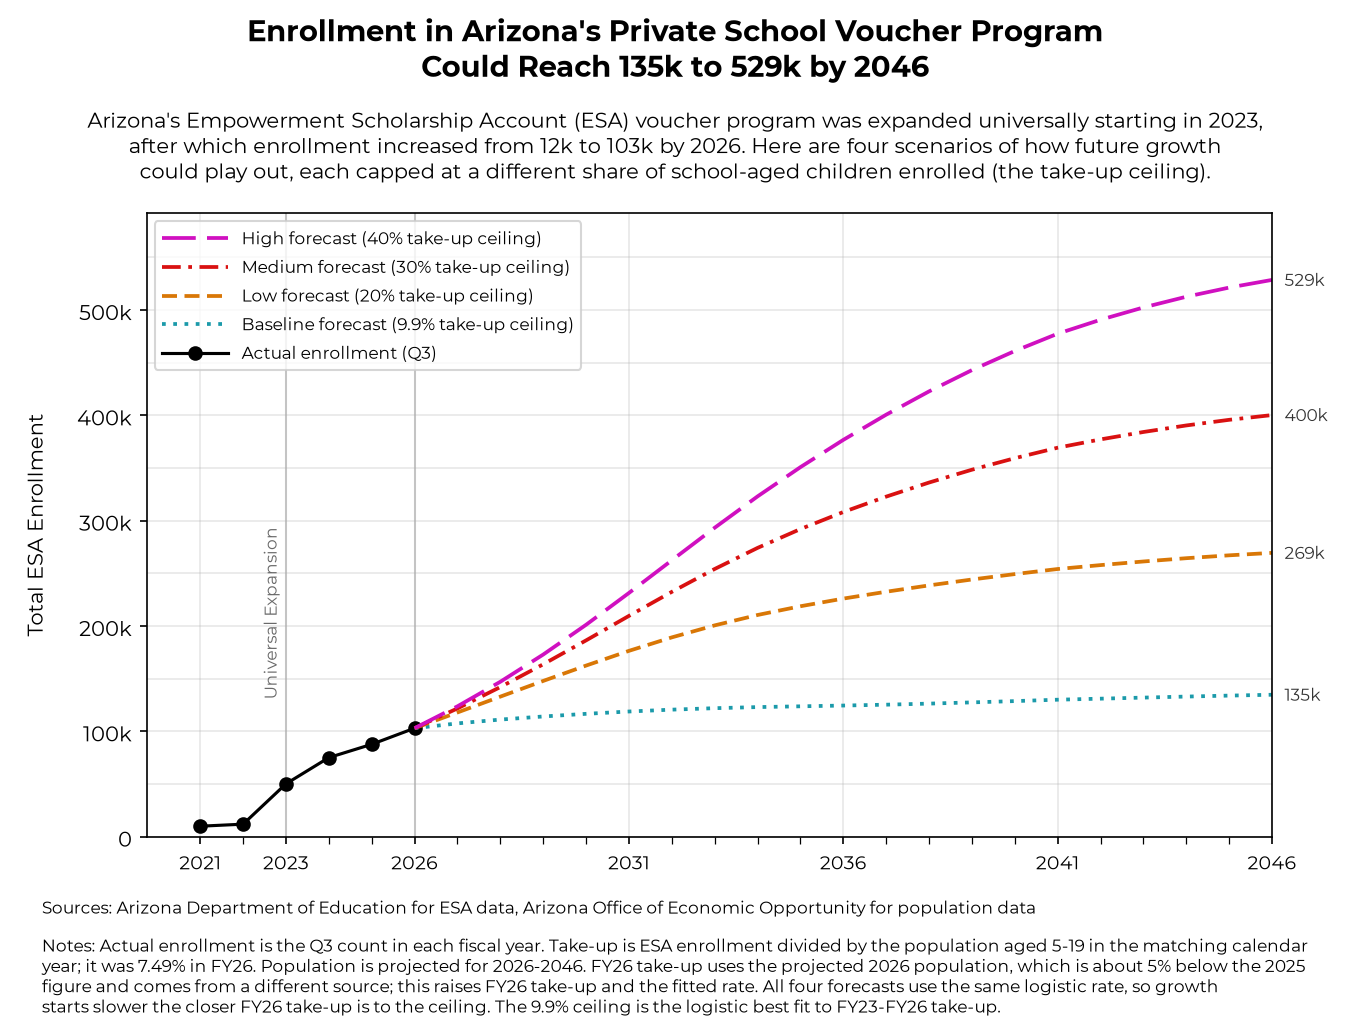
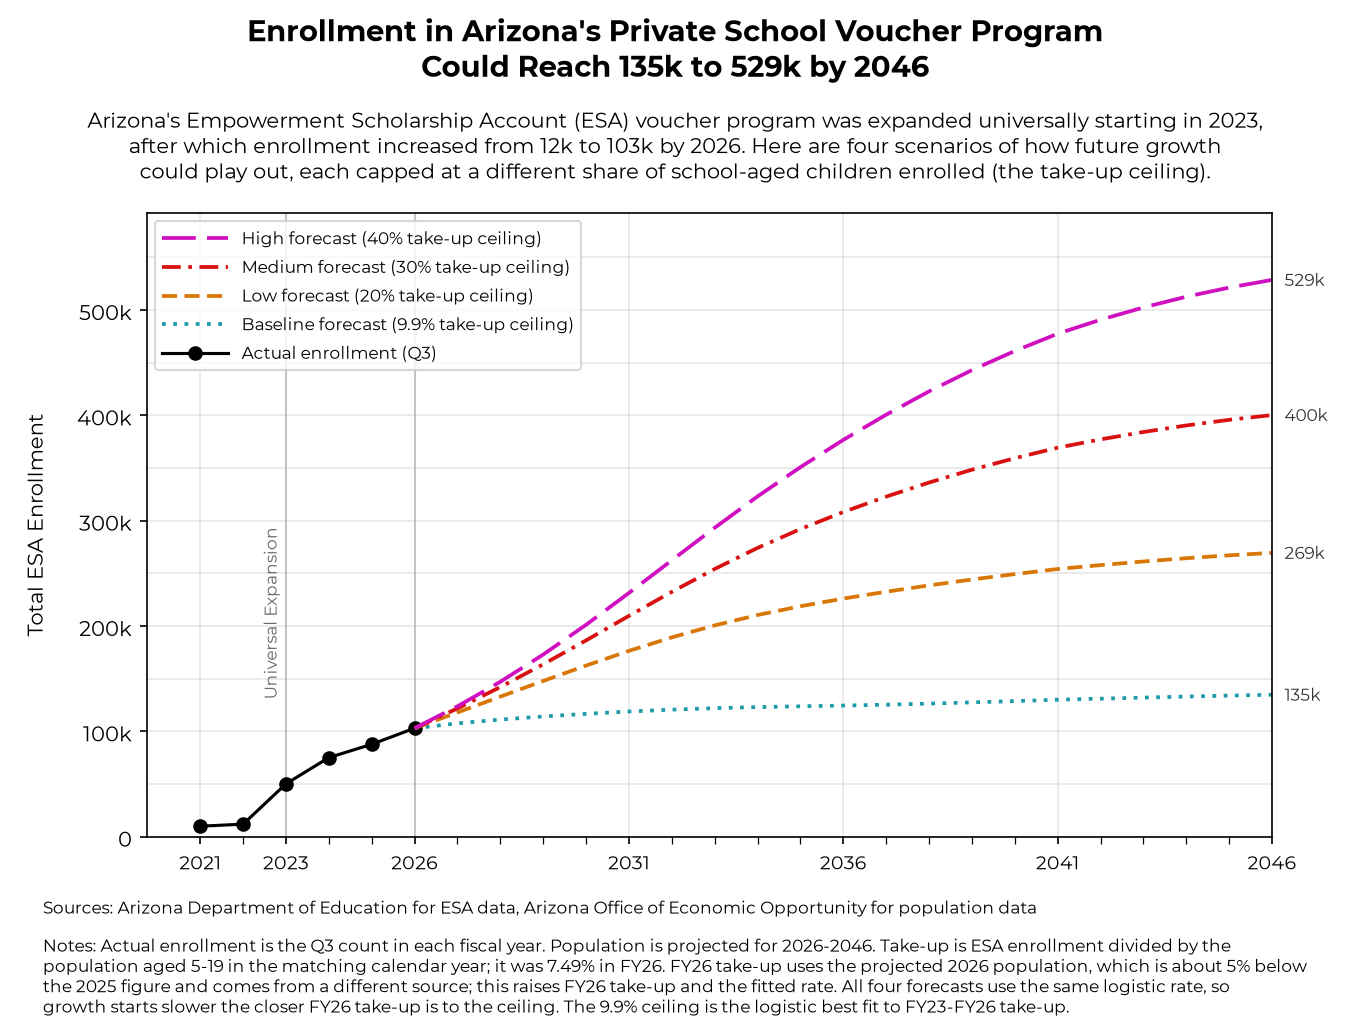
Add medium-low cost scenario, new hatches and notes; align slide subtitles

Changed region(s): [[0.0311, 0.8724, 0.9644, 0.9971]]

diff --git a/src/voucher_growth_model/plots/plot_forecast_cost.py b/src/voucher_growth_model/plots/plot_forecast_cost.py
@@ -21,25 +21,26 @@ SOURCE = ("Sources: Arizona Department of Education for ESA data, "
           "Arizona Office of Economic Opportunity for population data")
 
 SHOWN_YEARS = ["FY26", "FY36", "FY46"]
-# (takeup scenario, voucher scenario, legend label), ascending cost
+# (takeup scenario, voucher scenario, hatch, legend label), ascending cost. Colour follows the take-up scenario; the
+# hatches differ so bars stay separable in greyscale and for colour-blind readers.
 SCENARIOS = [
-    ("k9.9", "infl2", "Baseline (baseline forecast + 2% voucher growth)"),
-    ("k20", "hist", "Low (low forecast + {r:.1%} voucher growth)"),
-    ("k30", "hist", "Medium (medium forecast + {r:.1%} voucher growth)"),
-    ("k40", "hist", "High (high forecast + {r:.1%} voucher growth)"),
+    ("k9.9", "infl2", "||", "Baseline (2% voucher growth)"),
+    ("k20", "infl2", "//", "Low (2% voucher growth)"),
+    ("k20", "hist", "..", "Medium-low ({r:.1%} voucher growth)"),
+    ("k30", "hist", "xx", "Medium ({r:.1%} voucher growth)"),
+    ("k40", "hist", "--", "High ({r:.1%} voucher growth)"),
 ]
 TITLE = ("Cost of Arizona's Private School Voucher Program\n"
          "Could Reach \\${lo:,.1f}B to \\${hi:,.1f}B per Year by 2046")
-SUBTITLE = ("Annual cost in FY26 dollars under each of the four scenarios paired with\n"
+SUBTITLE = ("Annual cost in FY26 dollars under each of the five scenarios paired with\n"
             "inflationary or average voucher growth rate.")
 NOTES = ("Notes: Cost is projected enrollment multiplied by the mean voucher, deflated to FY26 dollars at 2% per year. "
-         "The baseline assumes the mean voucher grows 2% per year; the other scenarios assume it keeps growing at its "
-         "FY24-FY26 rate of {r:.1%} per year. Take-up ceilings are 9.9% (baseline), 20% (low), 30% (medium) and 40% (high). FY26 is the "
-         "actual Q3 enrollment times the mean voucher.")
-BAR_WIDTH = 0.2
-GROUP_GAP = 1 - 4 * BAR_WIDTH  # edge-to-edge gap between bar groups
-# Distinct hatches so bars stay separable in greyscale and for colour-blind readers
-HATCHES = {"k9.9": "..", "k20": "//", "k30": "||", "k40": "xx"}
+         "The baseline and low scenarios assume the mean voucher grows 2% per year; the others assume it keeps growing "
+         "at its FY24-FY26 rate of {r:.1%} per year. Take-up ceilings are 9.9% (baseline), 20% (low and medium-low), "
+         "30% (medium) and 40% (high). FY26 is the actual Q3 enrollment.")
+GROUP_WIDTH = 0.8  # bars in a group fill this much of the 1.0 spacing between groups
+BAR_WIDTH = GROUP_WIDTH / len(SCENARIOS)
+GROUP_GAP = 1 - GROUP_WIDTH  # edge-to-edge gap between bar groups
 plt.rcParams["hatch.linewidth"] = 1.0
 
 
@@ -60,7 +61,7 @@ def plot_forecast_cost(forecast_csv: Path, out_path: Path, figsize: tuple[float,
     cost = f.set_index(["fy", "takeup_scenario", "voucher_scenario"])["cost_real_fy26"] / 1e9
     m = f[(f["voucher_scenario"] == "hist") & (f["takeup_scenario"] == SCENARIOS[0][0])].set_index("fy")["mean_voucher"]
     hist_rate = m["FY27"] / m["FY26"] - 1
-    end = [cost[("FY46", k, v)] for k, v, _ in SCENARIOS]
+    end = [cost[("FY46", k, v)] for k, v, _, _ in SCENARIOS]
 
     fig, ax = plt.subplots(figsize=figsize)
     ticks = []
@@ -69,21 +70,21 @@ def plot_forecast_cost(forecast_csv: Path, out_path: Path, figsize: tuple[float,
         if fy == "FY26":
             # Double bar width, placed so the edge-to-edge gap to the FY36 group equals the gap between later groups
             w = 2 * BAR_WIDTH
-            ticks[-1] = 1 - 2 * BAR_WIDTH - GROUP_GAP - w / 2
+            ticks[-1] = 1 - GROUP_WIDTH / 2 - GROUP_GAP - w / 2
             val = cost[(fy, SCENARIOS[0][0], SCENARIOS[0][1])]
             ax.bar(ticks[-1], val, width=w, color="black")
             ax.annotate(f"\\${val:,.1f}B", (ticks[-1], val), xytext=(0, 3), textcoords="offset points",
                         ha="center", va="bottom", fontsize=8, color="#333333")
             continue
-        for j, (k, v, _) in enumerate(SCENARIOS):
+        for j, (k, v, hatch, _) in enumerate(SCENARIOS):
             val = cost[(fy, k, v)]
-            x = i + (j - 1.5) * BAR_WIDTH
-            ax.bar(x, val, width=BAR_WIDTH, color=SCENARIO_COLORS_5_19[k], hatch=HATCHES[k], edgecolor="white", linewidth=0)
+            x = i + (j - (len(SCENARIOS) - 1) / 2) * BAR_WIDTH
+            ax.bar(x, val, width=BAR_WIDTH, color=SCENARIO_COLORS_5_19[k], hatch=hatch, edgecolor="white", linewidth=0)
             ax.annotate(f"\\${val:,.1f}B", (x, val), xytext=(0, 3), textcoords="offset points",
                         ha="center", va="bottom", fontsize=7.5, color="#333333")
     ax.set_ylabel("Annual Cost ($ billions, FY26 dollars)", labelpad=14)
     ax.set_xticks(ticks, [f"20{y[2:]}" for y in SHOWN_YEARS])
-    ax.set_xlim(ticks[0] - BAR_WIDTH - GROUP_GAP, len(SHOWN_YEARS) - 1 + 2 * BAR_WIDTH + GROUP_GAP)
+    ax.set_xlim(ticks[0] - BAR_WIDTH - GROUP_GAP, len(SHOWN_YEARS) - 1 + GROUP_WIDTH / 2 + GROUP_GAP)
     ax.tick_params(axis="x", labelsize=9)
     ax.yaxis.set_major_locator(MultipleLocator(2))
     ax.yaxis.set_minor_locator(MultipleLocator(1))
@@ -94,8 +95,8 @@ def plot_forecast_cost(forecast_csv: Path, out_path: Path, figsize: tuple[float,
     ax.set_axisbelow(True)
     ax.set_ylim(0, max(end) * 1.12)
     handles = [
-        Patch(facecolor=SCENARIO_COLORS_5_19[k], edgecolor="white", linewidth=0, hatch=HATCHES[k],
-              label=label.format(r=hist_rate)) for k, _, label in SCENARIOS[::-1]
+        Patch(facecolor=SCENARIO_COLORS_5_19[k], edgecolor="white", linewidth=0, hatch=hatch,
+              label=label.format(r=hist_rate)) for k, _, hatch, label in SCENARIOS[::-1]
     ] + [Patch(color="black", label="Actual (FY26)")]
     ax.legend(handles=handles, fontsize=8, loc="upper left", handlelength=3, handleheight=1.4)
 

diff --git a/src/voucher_growth_model/plots/plot_forecast_slide.py b/src/voucher_growth_model/plots/plot_forecast_slide.py
@@ -19,11 +19,14 @@ from voucher_growth_model.plots.plot_forecast_enrollment import SAVE_DPI, TITLE 
 CANVAS_SIZE = (16, 9)  # inches
 # Panel sizes in inches; widths sum to the canvas width. Wraps are characters per line at that width.
 ENROLLMENT = dict(figsize=(9.5, 9), subtitle_wrap=112, notes_wrap=145, reserve_note_lines=5)
-COST = dict(figsize=(6.5, 9), subtitle_wrap=68, notes_wrap=100)  # same height, so plot areas can line up
+COST = dict(figsize=(6.5, 9), subtitle_wrap=68, notes_wrap=104)  # same height, so plot areas can line up
 TITLE_FONTSIZE = 17  # the largest size that keeps the title on one line
-PANEL = dict(show_title=False, subtitle_top=0.57, center_subtitle=True, show_source=False)
+PANEL = dict(show_title=False, subtitle_top=0.57, center_subtitle=True, show_source=False)  # one slide title, one sources line
 SOURCE = ("Sources: Arizona Department of Education for ESA data, "
-          "Arizona Office of Economic Opportunity for population data")  # the slide's single title replaces panel titles
+          "Arizona Office of Economic Opportunity for population data")
+# The cost subtitle has two lines to the enrollment subtitle's three; drop it half a line so their centres match
+SUBTITLE_LINE_HEIGHT = 0.167  # inches at 10 pt
+COST_SUBTITLE_TOP = PANEL["subtitle_top"] + (3 - 2) / 2 * SUBTITLE_LINE_HEIGHT
 COST_TITLE = "; Cost Could Reach \\${lo:,.1f}B to \\${hi:,.1f}B"
 
 
@@ -31,7 +34,7 @@ def plot_forecast_slide(voucher_csv: Path, forecast_csv: Path, out_path: Path) -
     with tempfile.TemporaryDirectory() as tmp:
         left, right = Path(tmp) / "enrollment.png", Path(tmp) / "cost.png"
         axes_y = plot_forecast_enrollment(voucher_csv, forecast_csv, left, **PANEL, **ENROLLMENT)
-        plot_forecast_cost(forecast_csv, right, axes_y=axes_y, **PANEL, **COST)  # bars level with the line graph
+        plot_forecast_cost(forecast_csv, right, axes_y=axes_y, **{**PANEL, "subtitle_top": COST_SUBTITLE_TOP}, **COST)  # bars level with the line graph
         images = [Image.open(p).convert("RGB") for p in (left, right)]
     canvas = Image.new("RGB", (sum(im.width for im in images), max(im.height for im in images)), "white")
     x = 0
@@ -43,7 +46,7 @@ def plot_forecast_slide(voucher_csv: Path, forecast_csv: Path, out_path: Path) -
     f46 = f[f["fy"] == "FY46"]
     enroll = f46["enroll"].drop_duplicates() / 1e3
     cost = [f46[(f46["takeup_scenario"] == k) & (f46["voucher_scenario"] == v)]["cost_real_fy26"].iloc[0] / 1e9
-            for k, v, _ in SCENARIOS]
+            for k, v, _, _ in SCENARIOS]
     title = (ENROLLMENT_TITLE.format(lo=enroll.min(), hi=enroll.max()).replace("\n", " ")
              + COST_TITLE.format(lo=min(cost), hi=max(cost)))
 

diff --git a/src/voucher_growth_model/plots/plot_forecast_enrollment.py b/src/voucher_growth_model/plots/plot_forecast_enrollment.py
@@ -30,9 +30,9 @@ TITLE = ("Enrollment in Arizona's Private School Voucher Program\n"
          "Could Reach {lo:,.0f}k to {hi:,.0f}k by 2046")
 SOURCE = ("Sources: Arizona Department of Education for ESA data, "
           "Arizona Office of Economic Opportunity for population data")
-NOTES = ("Notes: Actual enrollment is the Q3 count in each fiscal year. Take-up is ESA enrollment "
-         "divided by the population aged 5-19 in the matching calendar year; it was {y0:.2%} in FY26. "
-         "Population is projected for 2026-2046. FY26 take-up uses the projected 2026 population, which is about 5% "
+NOTES = ("Notes: Actual enrollment is the Q3 count in each fiscal year. Population is projected for 2026-2046. "
+         "Take-up is ESA enrollment divided by the population aged 5-19 in the matching calendar year; "
+         "it was {y0:.2%} in FY26. FY26 take-up uses the projected 2026 population, which is about 5% "
          "below the 2025 figure and comes from a different source; this raises FY26 take-up and the fitted rate. "
          "All four forecasts use the same logistic rate, so growth starts slower the closer FY26 take-up is to the "
          "ceiling. The 9.9% ceiling is the logistic best fit to FY23-FY26 take-up.")
